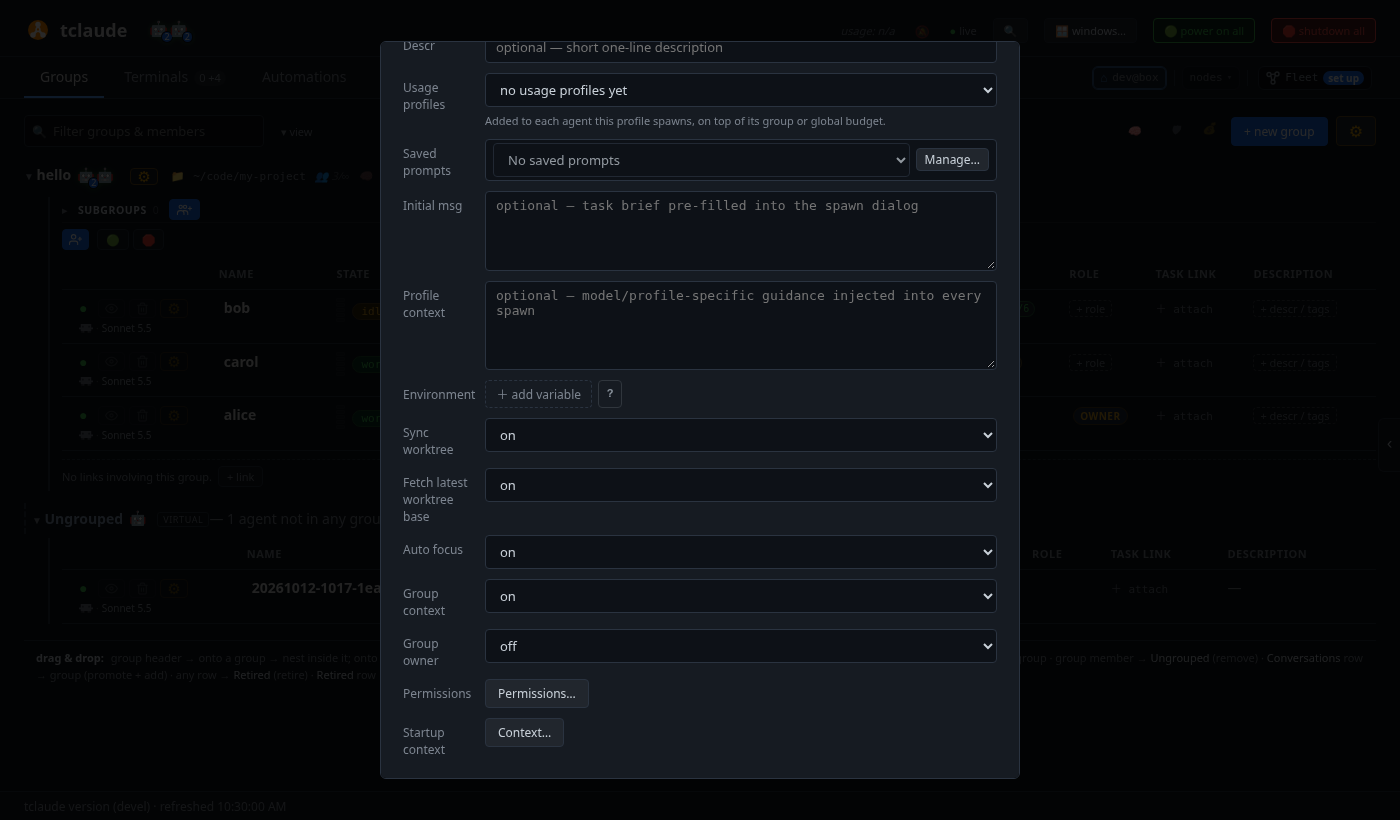
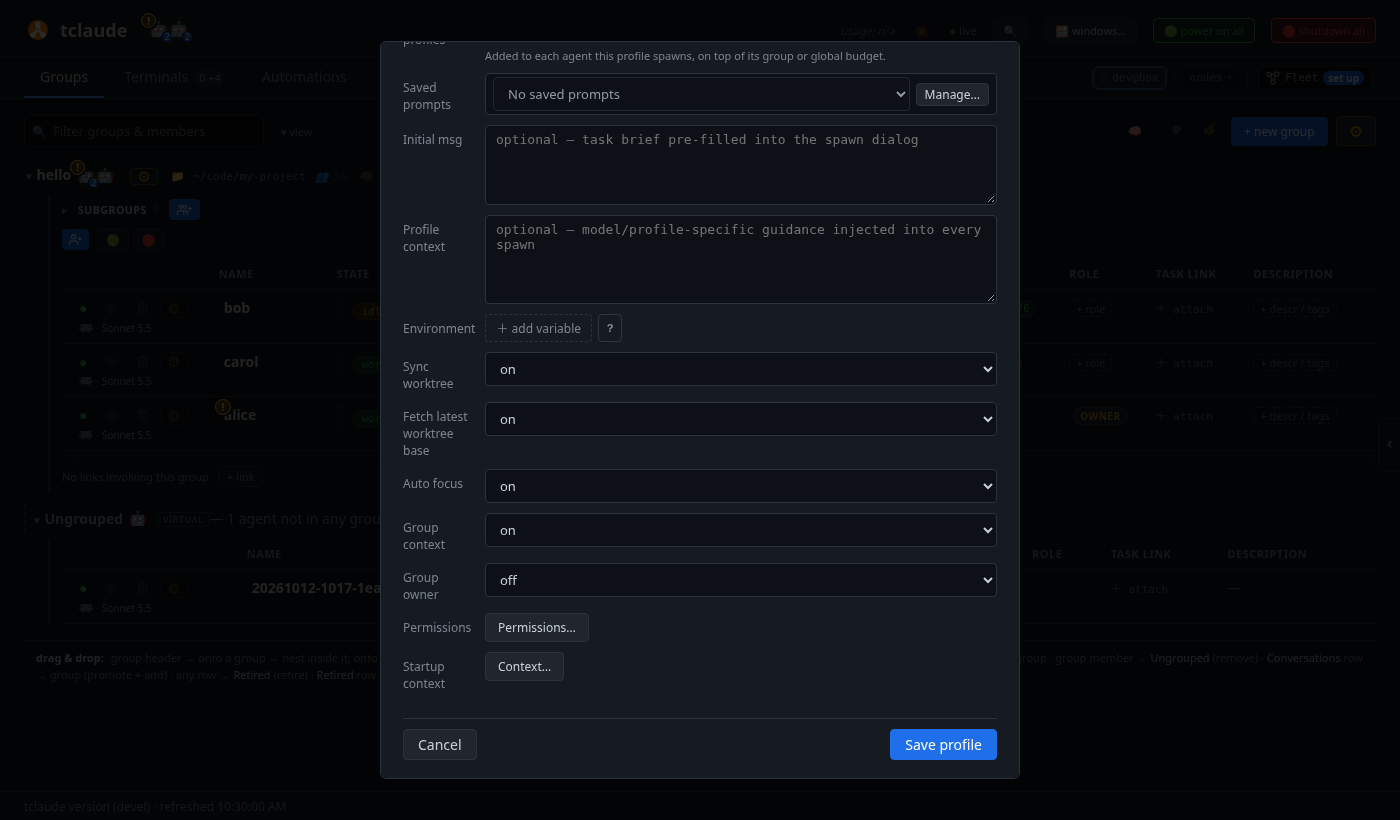
docs: settle the screenshot scroll step before capture

diff --git a/scripts/e2e/drive/docshots/main.go b/scripts/e2e/drive/docshots/main.go
@@ -478,6 +478,12 @@ func runStep(p *rod.Page, st Step) error {
 	case st.Check != "":
 		return act(st.Check, `e => { const b = e.matches('input') ? e : e.querySelector('input'); if (!b) throw new Error('no checkbox'); if (!b.checked) b.click(); }`)
 	case st.Scroll != "":
+		// Dialogs fill in rows after they open, which moves the target, so scroll
+		// again once the layout has had time to settle.
+		if err := act(st.Scroll, `e => e.scrollIntoView({block: 'center'})`); err != nil {
+			return err
+		}
+		time.Sleep(600 * time.Millisecond)
 		return act(st.Scroll, `e => e.scrollIntoView({block: 'center'})`)
 	case st.Hide != "":
 		return act(st.Hide, `e => e.style.setProperty('display', 'none', 'important')`)
